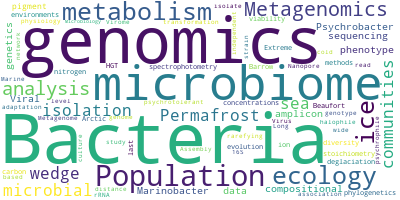
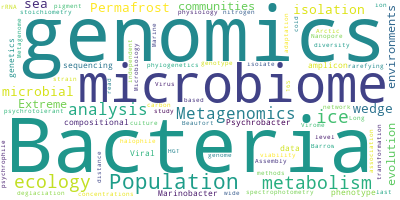
Andersonetal2017

diff --git a/papers/Metagenomics/Population_genetics/Andersonetal2017.md b/papers/Metagenomics/Population_genetics/Andersonetal2017.md
@@ -4,7 +4,7 @@ Anderson, RE; Reveillaud, J; Reddington, E; Delmont, TO; Eren, AM; McDermott, JM
 ## Title:
 Genomic variation in microbial populations inhabiting the marine subseafloor at deep-sea hydrothermal vents
 ## Keywords:
-Population genetics
+Population genetics, extreme environments, genomics, evolution
 ## Geographic Coverage
 Von Damm/Piccard HTVs, Mid-Cayman Rise, Caribbean Sea
 ## Field Dates:
